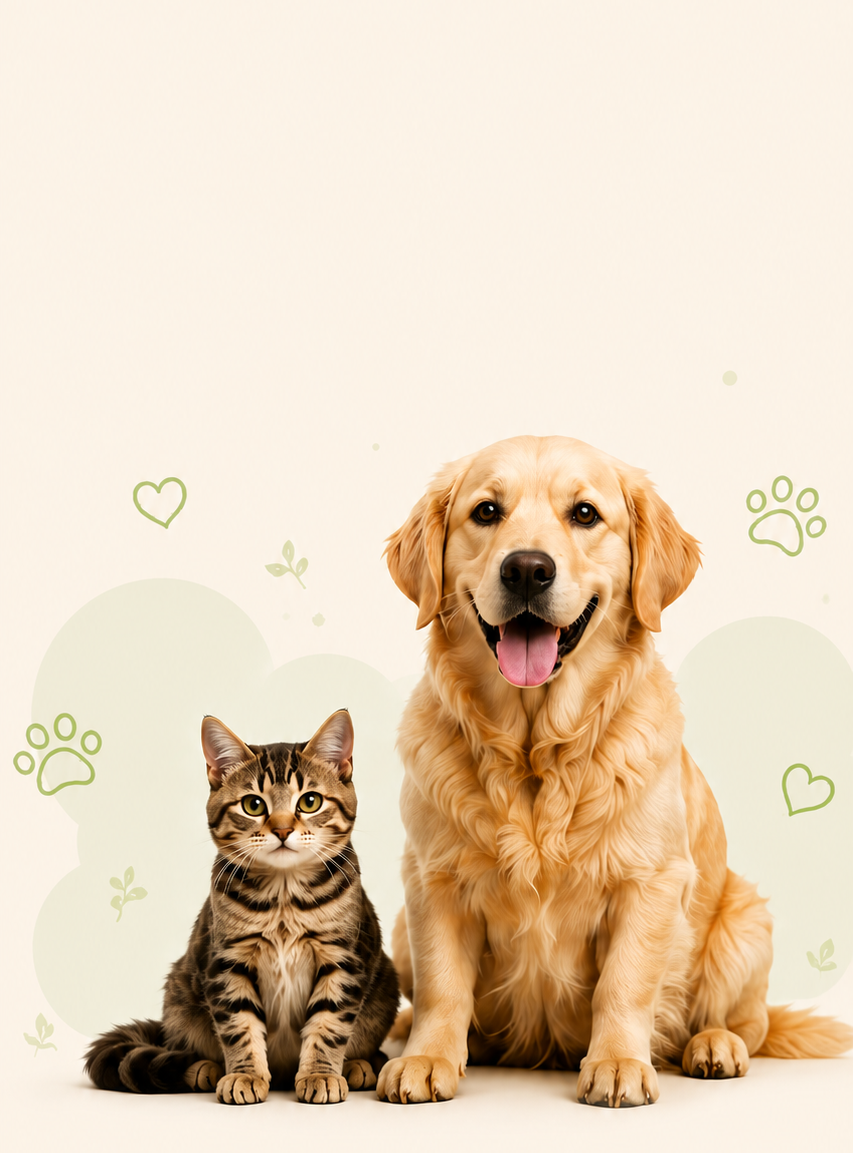
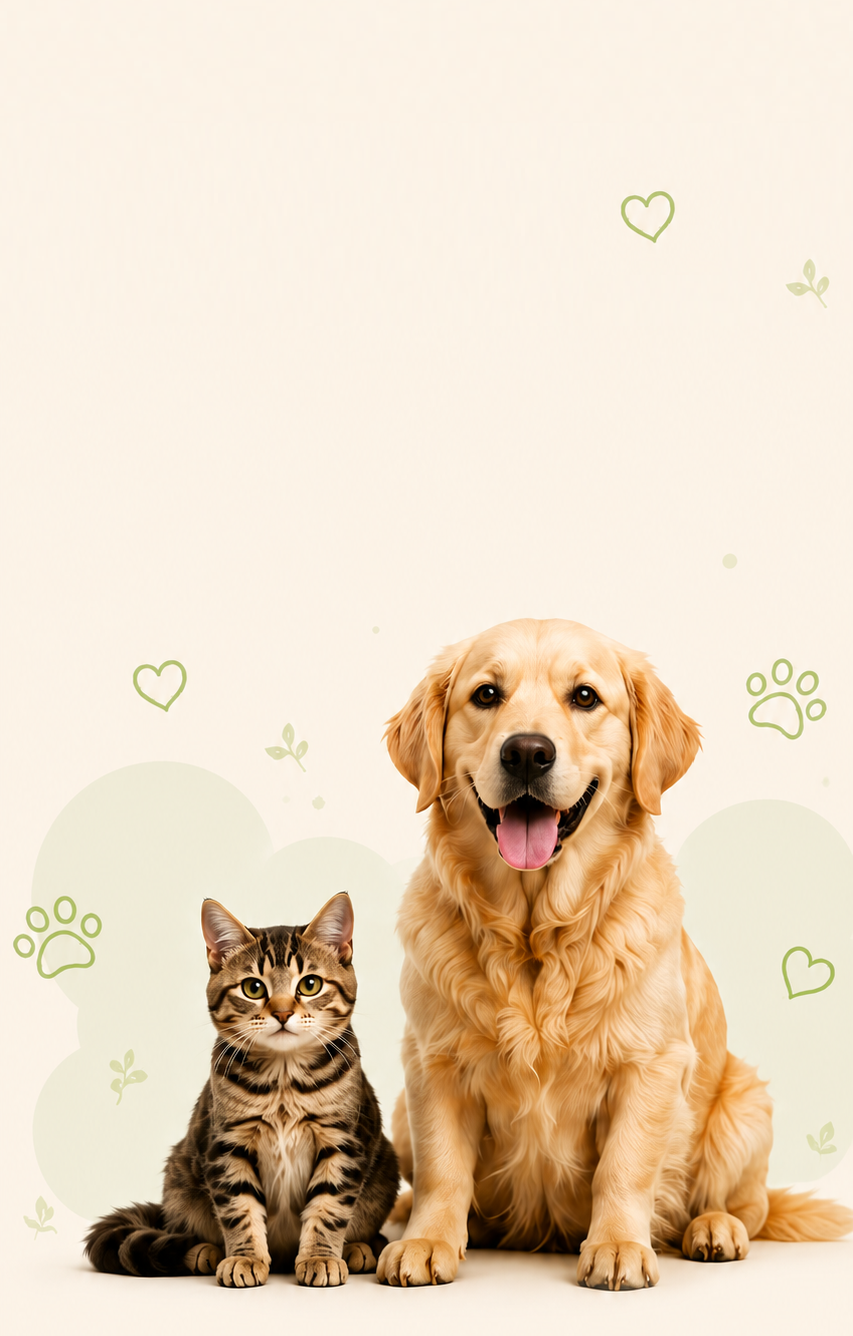
imhancement in responsiveness

diff --git a/src/pages/about.jsx b/src/pages/about.jsx
@@ -29,14 +29,15 @@ export default function About() {
        
         
         <div className="absolute inset-0 px-6 flex ">
-          <div className=" mt-10 lg:mt-20 lg:max-w-8xl pl-6 md:pl-12 lg:pl-20">
+          <div className=" mt-6 lg:mt-20 lg:max-w-8xl pl-6 md:pl-12 lg:pl-20">
              <div className="">
-          <h1 className=" playpen font-extrabold text-3xl sm:text-5xl mb-10 lg:text-8xl text-[#144a36] leading-tight">
+          <h1 className=" playpen  lg:w-6xl font-extrabold text-5xl sm:text-5xl lg:mb-10 mb-4 lg:text-8xl text-[#144a36] leading-tight">
+           
             Connecting Pets 
-            With <br /> <span className="text-[#88b62c]">Loving Families</span>
+            With  <span className="text-[#88b62c]"><br className="block lg:hidden md:hidden"/>Loving Families</span>
           </h1>
 
-          <p className=" inter lg:w-4xl md:w-lg  text-black text-base sm:text-lg md:text-xl lg:text-4xl font-medium leading-loose">
+          <p className=" inter lg:w-4xl md:w-lg  text-xl text-base sm:text-lg md:text-xl lg:text-4xl font-medium leading-loose">
             At AdoptBuddy, we believe every pet deserves a safe home every pet lover deserves the perfect companion.
           </p>
         </div>
@@ -45,61 +46,64 @@ export default function About() {
       </section>
       
 {/*content*/}
-       <section className="bg-white/40 px-20 py-30"
-        style={{
-           backgroundImage: `url(${background})`,
-         }}>
-
+       <section className="bg-white/40 lg:px-20 px-10 py-10 lg:py-30">
+         <div
+    className="hidden lg:block absolute inset-0 bg-cover bg-center -z-10"
+    style={{
+      backgroundImage: `url(${background})`,
+    }}
+  />
       {/* Story */}
 
           <div>
-           <h2 className="playpen text-5xl font-extrabold text-center text-[#144a36]">
-            <span className="text-[#88b62c]">-----</span>AdoptBuddy<span className="text-[#88b62c]">-----</span>
+           <h2 className="playpen text-4xl lg:text-5xl font-extrabold text-center text-[#144a36]">
+            <span className="text-[#88b62c] text-2xl lg:text-5xl">-----</span>AdoptBuddy<span className="text-[#88b62c] text-2xl lg:text-5xl">-----</span>
             </h2> 
-            <p className="inter mt-16 mr-20 lg:ml-20 text-black text-2xl font-medium leading-relaxed">
-               <span className="playpen text-[#88b62c] text-4xl font-bold text-center">---Connecting Hearts---</span> <br/><br/>AdoptBuddy was created to bring together pets in need of loving homes and people looking for loyal companions, because no one—human or animal—should have to face loneliness alone.
-<br/><br/><span className="playpen text-[#88b62c] text-4xl font-bold">---Reuniting Lost Families---</span><br/> <br/>We help lost pets find their way back home by connecting communities and pet owners, giving families hope and increasing the chances of joyful reunions.
-<br/><br/><span className="playpen text-[#88b62c] text-4xl font-bold">---Pet Care---</span> <br/><br/>Beyond adoption, AdoptBuddy offers access to trusted veterinarians and pet healthcare support to ensure every pet enjoys a happy, healthy life.
-<br/><br/><span className="playpen text-[#88b62c] text-4xl font-bold">---Building a Caring Community---</span><br/> <br/>We believe every pet deserves love, safety, and a family. Through compassion and responsible pet ownership, we're creating a community where animals are protected, cherished, and never forgotten.
+            <p className="inter mt-10 lg:mt-16 lg:mr-20 lg:ml-20 text-black text-2xl font-medium leading-relaxed">
+               <span className="playpen text-[#88b62c] lg:text-4xl text-2xl font-bold text-center">---Connecting Hearts---</span> <br className="hidden lg:block md:block"/><br/>AdoptBuddy was created to bring together pets in need of loving homes and people looking for loyal companions, because no one—human or animal—should have to face loneliness alone.
+<br/><br/><span className="playpen text-[#88b62c] lg:text-4xl text-2xl font-bold text-center">---Reuniting Lost Families---</span><br className="hidden lg:block md:block"/> <br/>We help lost pets find their way back home by connecting communities and pet owners, giving families hope and increasing the chances of joyful reunions.
+<br/><br/><span className="playpen text-[#88b62c] lg:text-4xl text-2xl font-bold text-center">---Pet Care---</span> <br className="hidden lg:block md:block"/><br/>Beyond adoption, AdoptBuddy offers access to trusted veterinarians and pet healthcare support to ensure every pet enjoys a happy, healthy life.
+<br/><br/><span className="playpen text-[#88b62c] lg:text-4xl text-2xl font-bold text-center">---Building a Caring Community---</span><br className="hidden lg:block md:block"/> <br/>We believe every pet deserves love, safety, and a family. Through compassion and responsible pet ownership, we're creating a community where animals are protected, cherished, and never forgotten.
             </p>
           </div>
           </section>
 
  {/* Who We Are */}
- <section className="px-20 md:px-12 lg:px-20 py-20">
- <div className="mt-16 space-y-16">
-
+ <section className="px-10 md:px-12 lg:px-20 py-10 lg:py-20">
+ <div className="lg:mt-16 space-y-16">
+<h1 className="playpen text-4xl lg:text-5xl font-bold text-center text-[#88b62c]">
+          -----<span className="text-[#144a36]">Who We Are</span>-----</h1>
     {/* Our Mission - image left, text right */}
-    <div className="grid rounded-2xl md:grid-cols-2 gap-2 lg:gap-2 items-start mr-20 lg:ml-20">
+    <div className="grid rounded-2xl md:grid-cols-2 gap-2 lg:gap-2 items-start lg:mr-20 lg:ml-20">
       <img
         src={dogImg}
         alt="Our Mission"
-        className="w-100 h-72 ml-40 md:h-80 lg:h-96 object-cover rounded-2xl border-4 border-[#144a36]"
+        className="w-100 h-full lg:ml-40 md:h-80 lg:h-96 object-cover rounded-2xl border-4 border-[#144a36]"
       />
       <div className=" lg:mr-40 mt-4">
-        <h3 className="playpen text-3xl md:text-5xl font-bold text-center text-[#88b62c]">
+        <h3 className="playpen text-4xl lg:text-5xl font-bold text-center text-[#88b62c]">
           -----<span className="text-[#144a36]">Our Mission</span>-----
         </h3>
-        <p className="inter mt-10 text-lg md:text-xl lg:text-3xl text-black leading-relaxed text-center">
+        <p className="inter mt-10 text-xl md:text-xl lg:text-3xl text-black leading-relaxed text-center">
           To reduce the number of homeless and lost pets by promoting responsible adoption, accessible veterinary care, and compassionate pet ownership. We strive to build a supportive community where every pet receives the love, care, and safe home they deserve.
         </p>
       </div>
     </div>
 
     {/* Our Vision - text left, image right */}
-    <div className="grid rounded-2xl md:grid-cols-2 gap-2 lg:gap-2 items-start mt-40  mr-20 lg:ml-20">
+    <div className="grid rounded-2xl md:grid-cols-2 gap-2 lg:gap-2 items-start lg:mt-40  lg:mr-20 lg:ml-20">
       <div className="order-2 lg:ml-40 mt-4 md:order-1">
-        <h3 className="playpen text-3xl md:text-5xl font-bold text-center text-[#88b62c]">
+        <h3 className="playpen text-4xl lg:text-5xl font-bold text-center text-[#88b62c]">
           -----<span className="text-[#144a36]">Our Vision</span>-----
         </h3>
-        <p className="inter mt-10 text-lg md:text-xl lg:text-3xl text-black leading-relaxed text-center">
+        <p className="inter mt-10 text-xl md:text-xl lg:text-3xl text-black leading-relaxed text-center">
           To create a pet-first ecosystem that connects pets with loving families, empowers pet parents with trusted resources, and builds stronger communities where every animal is safe, healthy, and valued.
         </p>
       </div>
       <img
         src={catImg}
         alt="Our Vision"
-        className="order-1 md:order-2 mr-40 justify-self-end w-100 h-72 md:h-80 lg:h-96 object-cover rounded-2xl border-4 border-[#144a36]"
+        className="order-1 md:order-2 lg:mr-40 justify-self-end w-100 h-full md:h-80 lg:h-96 object-cover rounded-2xl border-4 border-[#144a36]"
       />
     </div>
 
@@ -107,14 +111,14 @@ export default function About() {
 </section>
 
       {/* TEAM */}
-      <section className=" py-15 px-6"
+      <section className=" lg:py-15 py-10 px-10"
       style={{
            backgroundImage: `url(${background2})`,
          }}
          >
   <div className="max-w-auto lg:mx-20">
 
-    <h2 className="playpen text-5xl font-extrabold text-center text-[#144a36] mt-20">
+    <h2 className="playpen lg:text-5xl text-4xl font-extrabold text-center text-[#144a36] lg:mt-20">
       <span className="text-[#88b62c]">-----</span>Our Team<span className="text-[#88b62c]">-----</span>
     </h2>
 

diff --git a/src/pages/contact.jsx b/src/pages/contact.jsx
@@ -13,18 +13,6 @@ export default function Contact() {
     <>
       <Navbar />
 
-             {/* banner
-                     <img
-                       src={MobileBanner}
-                       alt="Hero Banner"
-                       className="block lg:hidden md:hidden w-full h-full sm:h-[600px] object-cover"
-                     />
-                       <img
-                         src={AboutBanner}
-                         alt="About Hero"
-                         className="hidden lg:block md:block w-full h-[300px] py:20 md:h-[400px] lg:h-full object-cover"
-                       />
-                   */}
              <section className="relative overflow-hidden lg:mt-32 mt-15"
                    >
                      <img
@@ -56,7 +44,7 @@ export default function Contact() {
 
       <ContactUsInfo />
 
-      <section className="max-w-auto mx-auto px-20 py-20">
+      <section className="max-w-auto mx-auto lg:px-20 px-10 lg:py-20">
         <div className="grid lg:grid-cols-2 gap-30 ">
           <ContactForm />
 
@@ -89,14 +77,14 @@ export default function Contact() {
         </div>
       </section>
 
-      <section className="max-w-auto px-20 mx-auto py-20">
-        <div className="grid lg:grid-cols-2 gap-30">
+      <section className="max-w-auto lg:px-20 px-10 mx-auto py-10 lg:py-20">
+        <div className="grid lg:grid-cols-2 gap-10 lg:gap-30">
           
 <section id="faq" className="relative rounded-3xl overflow-hidden hover:-translate-y-2 transition-all shadow-lg hover:shadow-xl duration-300">
   <FAQ />
 </section>
           {/*Address*/}
-<div className="relative bg-white rounded-3xl border-[#88b62c] border-6 shadow-lg overflow-hidden relative rounded-3xl overflow-hidden hover:-translate-y-2 transition-all shadow-lg hover:shadow-xl duration-300">
+<div className="relative bg-white rounded-3xl border-[#88b62c] lg:border-6 border-4 shadow-lg overflow-hidden relative rounded-3xl overflow-hidden hover:-translate-y-2 transition-all shadow-lg hover:shadow-xl duration-300">
   <iframe
     title="AdoptBuddy Location"
     src="https://maps.google.com/maps?q=Jaipur,Rajasthan&t=&z=13&ie=UTF8&iwloc=&output=embed"
@@ -104,8 +92,8 @@ export default function Contact() {
     loading="lazy"
   ></iframe>
   
-  <div className="absolute bottom-6 right-6 bg-white rounded-2xl shadow-lg p-4 max-w-[250px]">
-    <h3 className="playpen font-bold text-[#144a36] text-lg">
+  <div className="absolute lg:bottom-6 bottom-4 right-4 lg:right-6 bg-white rounded-2xl shadow-lg p-4 max-w-[250px]">
+    <h3 className="playpen font-bold text-[#144a36] lg:text-lg">
       AdoptBuddy Office
     </h3>
 

diff --git a/src/components/contactForm.jsx b/src/components/contactForm.jsx
@@ -111,8 +111,8 @@ setShowSuccess(true);
 
 };
   return (
-    <div className="bg-white/50 rounded-3xl shadow-lg p-10 relative rounded-3xl overflow-hidden hover:-translate-y-2 transition-all shadow-lg hover:shadow-xl duration-300">
-      <h2 className="playpen text-5xl font-bold text-[#144a36] mb-8">
+    <div className="bg-white/50 rounded-3xl shadow-lg lg:p-10 p-8 relative rounded-3xl overflow-hidden hover:-translate-y-2 transition-all shadow-lg hover:shadow-xl duration-300">
+      <h2 className="playpen text-4xl lg:text-5xl font-bold text-[#144a36] mb-8">
         Send Us A Message
       </h2>
 